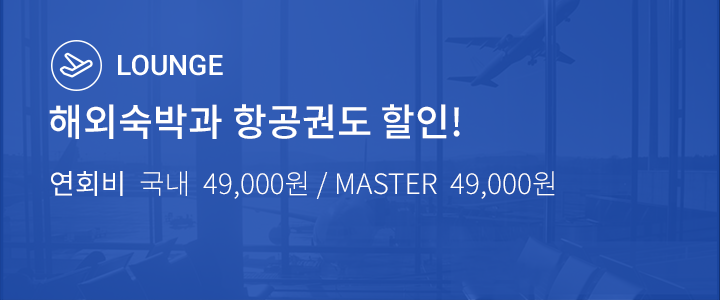
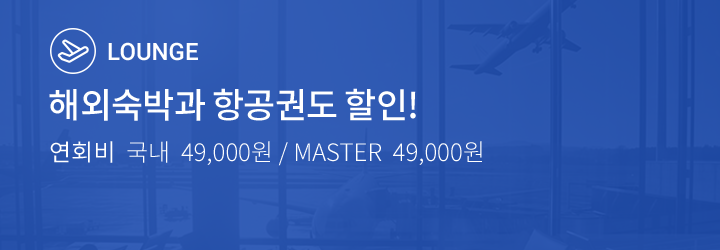
popup 수정

Changed region(s): [[0.0611, 0.336, 0.6417, 0.504], [0.0611, 0.56, 0.7639, 0.672], [0.0611, 0.112, 0.3056, 0.308]]

diff --git a/popup/assets/js/popup.js b/popup/assets/js/popup.js
@@ -27,7 +27,7 @@ var popup = (function($) {
             sectionElArray[3].offset().top
         ];
 
-        titleHeight = Math.floor(300 *ratio);
+        titleHeight = Math.floor(250 *ratio);
         menuHolderEl.css('height', titleHeight);
         onScroll();
     };
